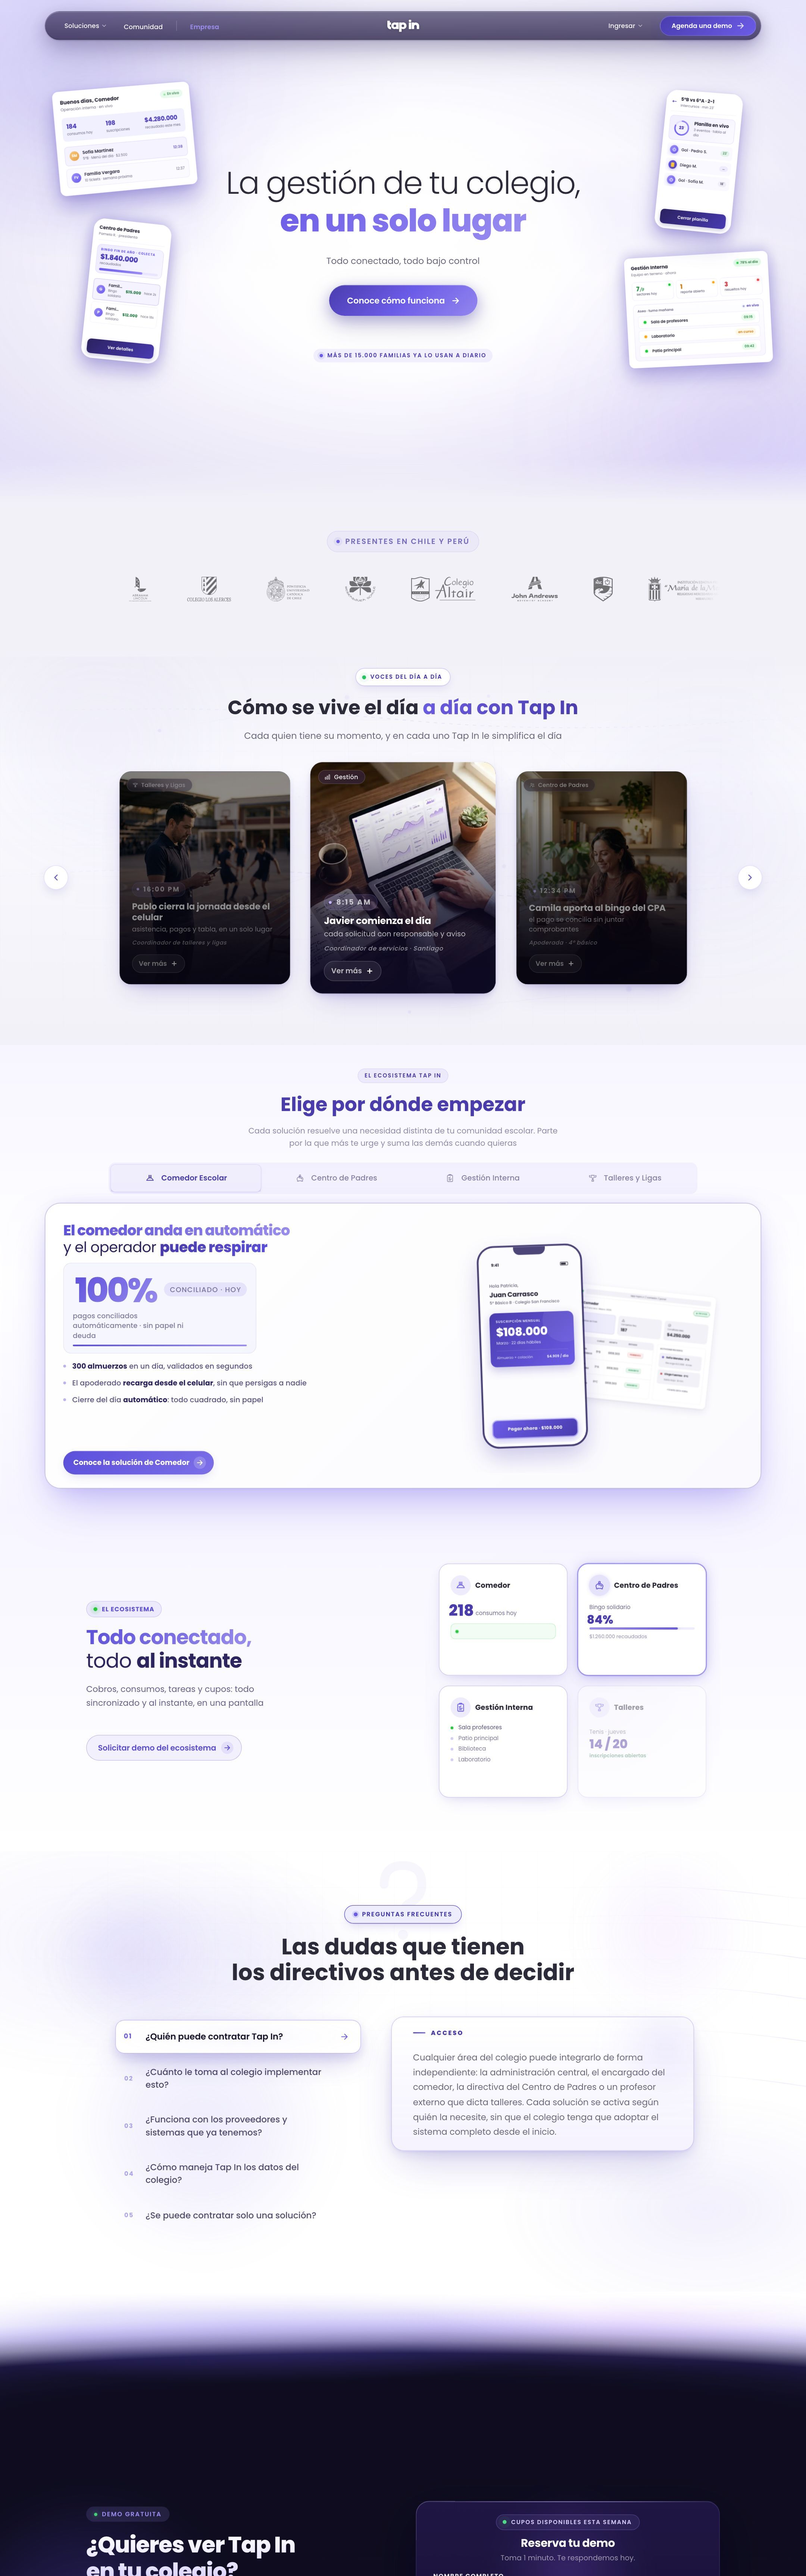
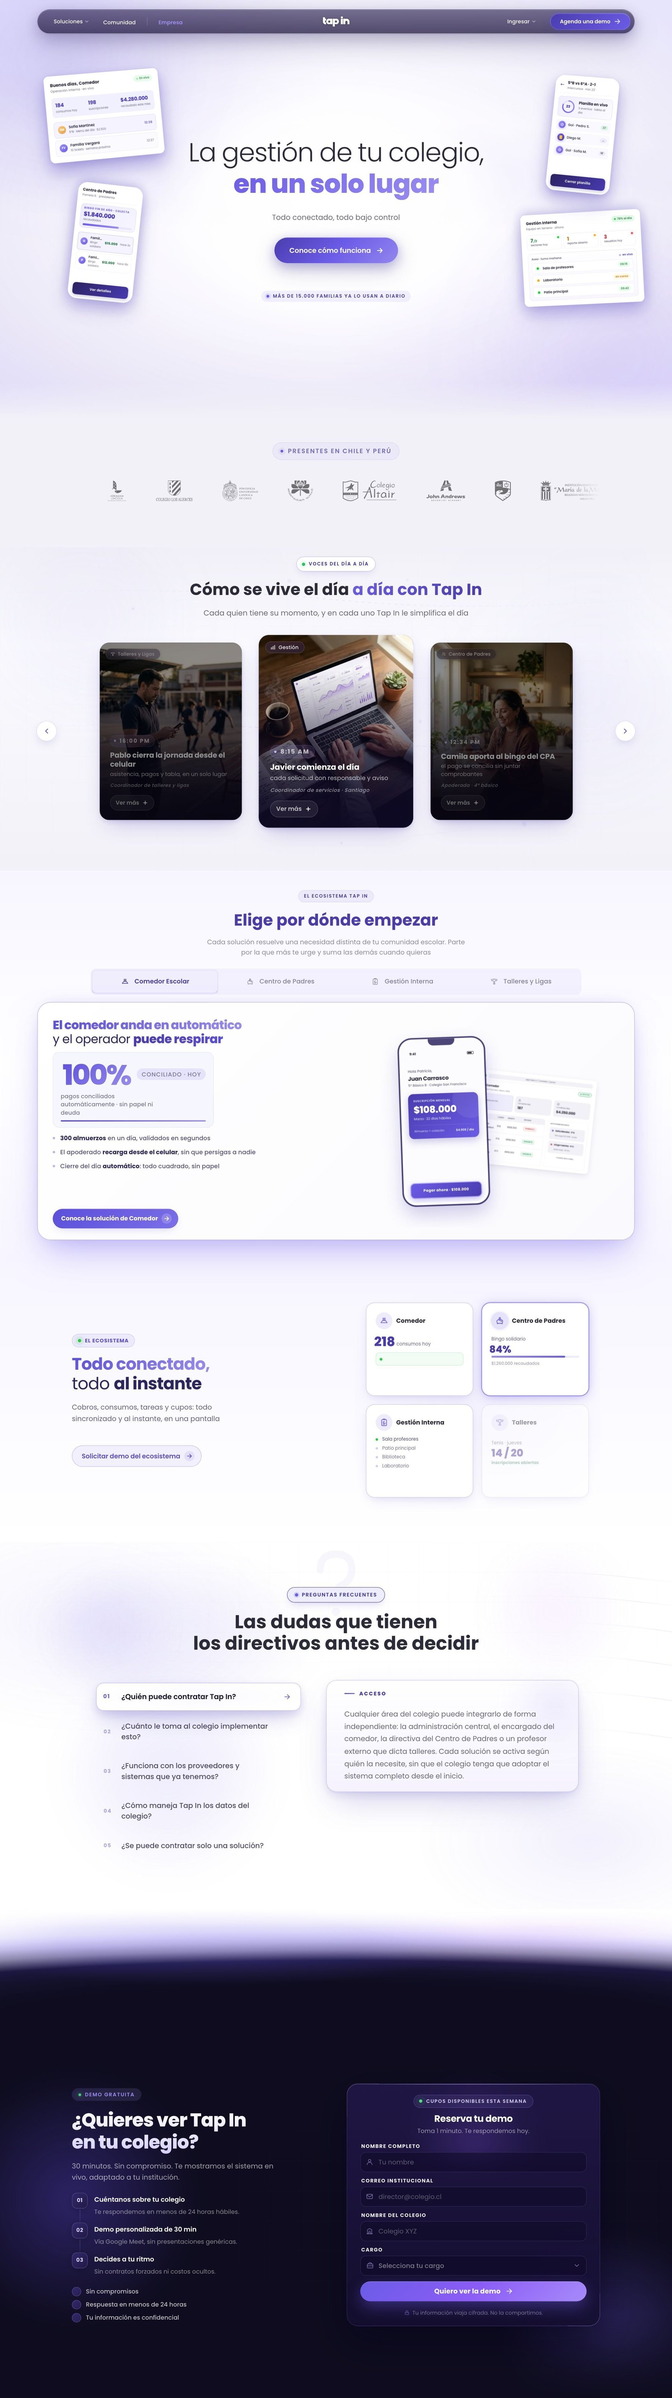
Decisiones: formulario, scroll y notas

diff --git a/redesign/explorations/caso/tapin.css b/redesign/explorations/caso/tapin.css
@@ -1041,27 +1041,24 @@
 .tp-sitio-pin { position: absolute; z-index: 1; display: grid; place-items: center; width: 22px; height: 22px; border-radius: 50%; background: var(--tp-campus); color: #FFFFFF; font-size: 10px; box-shadow: 0 0 0 2.5px #FFFFFF, 0 4px 10px -3px rgba(45, 37, 96, 0.5); translate: -50% -50%; scale: 0; transition: scale 450ms var(--tp-curva); }
 .tp-sitio-pin.ya { scale: 1; }
 /* Notas al margen: la actual en una tarjeta abierta, las demás en filas con su número (lleno si ya se vio) */
-.tp-sitio-indice { grid-column: 9 / -1; list-style: none; align-self: center; display: flex; flex-direction: column; gap: 4px; }
-.tp-sitio-indice > li { padding: 12px 16px; border-radius: 16px; transition: background-color 350ms ease, box-shadow 350ms ease; }
-.tp-sitio-indice .tp-sitio-cab { display: flex; flex-wrap: wrap; justify-content: space-between; row-gap: 12px; padding: 0 16px 14px; color: var(--texto-2); }
+.tp-sitio-indice { grid-column: 9 / -1; list-style: none; align-self: center; display: flex; flex-direction: column; gap: 2px; }
+.tp-sitio-indice > li { padding: 10px 14px; border-radius: 14px; transition: background-color 350ms ease, box-shadow 350ms ease; }
+.tp-sitio-indice .tp-sitio-cab { display: flex; justify-content: space-between; padding: 0 14px 12px; color: var(--texto-2); }
 .tp-sn-rot { display: inline-flex; align-items: center; gap: 8px; } .tp-sn-rot::before { content: ''; width: 6px; height: 6px; border-radius: 50%; background: var(--tp-campus); }
 .tp-sitio-cab span:nth-child(2) { color: var(--tp-campus); }
-.tp-sn-avance { flex: 0 0 100%; display: grid; grid-template-columns: repeat(5, 1fr); gap: 4px; }
-.tp-sn-avance i { height: 3px; border-radius: 3px; background: rgba(45, 37, 96, 0.1); transition: background-color 300ms ease; } .tp-sn-avance i.ya { background: var(--tp-campus); } .tp-sn-avance i.on { background: var(--tp-connect); }
-.tp-sitio-indice li.actual { background: #FFFFFF; box-shadow: 0 0 0 1px rgba(45, 37, 96, 0.06), 0 24px 44px -26px rgba(45, 37, 96, 0.5); }
-.tp-sitio-indice button { display: grid; grid-template-columns: 28px 1fr; gap: 12px; align-items: center; width: 100%; text-align: left; }
-.tp-sn-num { display: grid; place-items: center; width: 28px; height: 28px; border-radius: 50%; box-shadow: inset 0 0 0 1.5px rgba(45, 37, 96, 0.2); color: var(--texto-3); font-size: 11px; transition: background-color 300ms ease, color 300ms ease, box-shadow 300ms ease; }
-.tp-sitio-indice li.ya .tp-sn-num { background: var(--tp-campus); color: #FFFFFF; box-shadow: none; }
-.tp-sitio-indice li.actual .tp-sn-num { background: var(--tp-connect); color: #FFFFFF; box-shadow: 0 0 0 4px rgba(107, 92, 231, 0.18); }
-.tp-sitio-indice b { font: 600 clamp(16px, 1.3vw, 20px) / 1.15 var(--tp-f); letter-spacing: -0.025em; color: var(--texto-3); transition: color 300ms; }
-.tp-sitio-indice li.ya b { color: var(--texto-2); } .tp-sitio-indice li.actual b { color: var(--texto); }
-.tp-sn-cuerpo { display: grid; grid-template-rows: 0fr; padding-left: 40px; transition: grid-template-rows 500ms var(--ease); }
+.tp-sitio-indice li.actual { background: rgba(255, 255, 255, 0.72); box-shadow: 0 0 0 1px rgba(45, 37, 96, 0.07); }
+.tp-sitio-indice button { display: grid; grid-template-columns: 24px 1fr; gap: 12px; align-items: center; width: 100%; text-align: left; }
+.tp-sn-num { display: grid; place-items: center; width: 24px; height: 24px; border-radius: 50%; color: var(--texto-3); font-size: 11px; transition: background-color 300ms ease, color 300ms ease, box-shadow 300ms ease; }
+.tp-sitio-indice li.ya .tp-sn-num { color: var(--tp-campus); }
+.tp-sitio-indice li.actual .tp-sn-num { background: var(--tp-connect); color: #FFFFFF; }
+.tp-sitio-indice b { font: 500 clamp(15px, 1.2vw, 18px) / 1.2 var(--tp-f); letter-spacing: -0.025em; color: var(--texto-3); transition: color 300ms; }
+.tp-sitio-indice li.ya b { color: var(--texto-2); } .tp-sitio-indice li.actual b { color: var(--texto); font-weight: 600; }
+.tp-sn-cuerpo { display: grid; grid-template-rows: 0fr; padding-left: 36px; transition: grid-template-rows 500ms var(--ease); }
 .tp-sn-cuerpo > div { overflow: hidden; min-height: 0; } .tp-sn-cuerpo span { display: flex; }
 .tp-sitio-indice li.actual .tp-sn-cuerpo { grid-template-rows: 1fr; }
-.tp-sitio-indice p { margin: 0; padding-top: 10px; font-size: 15px; line-height: 1.5; color: var(--texto-2); }
-.tp-sn-marca { display: flex; align-items: center; gap: 8px; padding-top: 12px; color: var(--tp-connect); font-size: 11px; }
-.tp-sn-marca::before { content: ''; flex: none; width: 14px; height: 10px; border: 1.5px solid currentColor; border-radius: 3px; }
-@media (hover: hover) { .tp-sitio-indice li:not(.actual) button:hover b { color: var(--texto); } .tp-sitio-indice li:not(.actual) button:hover .tp-sn-num { box-shadow: inset 0 0 0 1.5px var(--tp-campus); } }
+.tp-sitio-indice p { margin: 0; padding-top: 8px; font-size: 14px; line-height: 1.5; color: var(--texto-2); }
+.tp-sn-marca { display: flex; padding-top: 10px; color: var(--texto-3); font-size: 11px; }
+@media (hover: hover) { .tp-sitio-indice li:not(.actual) button:hover b { color: var(--texto); } .tp-sitio-indice li:not(.actual) button:hover .tp-sn-num { color: var(--tp-campus); } }
 
 /* =======================================================
    DECISIÓN 11 · MÓDULOS EN VIVO

diff --git a/redesign/explorations/caso/tapin.html b/redesign/explorations/caso/tapin.html
@@ -505,17 +505,17 @@
                         <div class="tp-sitio-lienzo">
                             <img src="media/tp-larga.jpg" alt="El sitio tapin.cl completo" loading="lazy" decoding="async">
                             <img class="tp-sitio-dd" src="media/tp-dd-panel.jpg" alt="" aria-hidden="true">
-                            <span class="tp-sitio-pin mono" data-pin="0" style="left:5.208%; top:0.304%">06</span><span class="tp-sitio-pin mono" data-pin="1" style="left:15.625%; top:20.435%">07</span><span class="tp-sitio-pin mono" data-pin="2" style="left:12.986%; top:45.087%">08</span><span class="tp-sitio-pin mono" data-pin="3" style="left:10.069%; top:60.500%">09</span><span class="tp-sitio-pin mono" data-pin="4" style="left:13.542%; top:78.196%">10</span>
+                            <span class="tp-sitio-pin mono" data-pin="0" style="left:5.208%; top:0.272%">06</span><span class="tp-sitio-pin mono" data-pin="1" style="left:15.625%; top:18.288%">07</span><span class="tp-sitio-pin mono" data-pin="2" style="left:12.986%; top:40.350%">08</span><span class="tp-sitio-pin mono" data-pin="3" style="left:13.542%; top:69.981%">09</span><span class="tp-sitio-pin mono" data-pin="4" style="left:51.181%; top:86.770%">10</span>
                         </div>
                         <div class="tp-sitio-caja"><span class="mono">06</span></div>
                     </div>
                 </div>
-                <ol class="tp-sitio-indice"><li class="tp-sitio-cab mono" aria-hidden="true" style="--i:0"><span class="tp-sn-rot">Cinco decisiones en tapin.cl</span><span data-sitio-n>06 / 10</span><span class="tp-sn-avance"><i></i><i></i><i></i><i></i><i></i></span></li>
+                <ol class="tp-sitio-indice"><li class="tp-sitio-cab mono" aria-hidden="true" style="--i:0"><span class="tp-sn-rot">Cinco decisiones en tapin.cl</span><span data-sitio-n>06 / 10</span></li>
                     <li data-parada data-caja="75,14,1291,62,31" data-nota="La barra de menú" style="--i:1"><button type="button"><span class="tp-sn-num mono">06</span><b>Un menú, cuatro preguntas</b></button><div class="tp-sn-cuerpo"><div><p>Qué hace, si funciona en mi colegio, quiénes son y cómo los contacto. "Soluciones" y no "Productos": nadie quiere comprar un catálogo.</p><span class="tp-sn-marca mono">En el sitio · La barra de menú</span></div></div></li>
                     <li data-parada data-caja="225,940,1095,150,16" data-nota="Los colegios, bajo el hero" style="--i:2"><button type="button"><span class="tp-sn-num mono">07</span><b>Primero, confianza</b></button><div class="tp-sn-cuerpo"><div><p>El producto funcionando en el hero y, justo debajo, los colegios que ya lo usan. El director ve a sus pares antes de dudar.</p><span class="tp-sn-marca mono">En el sitio · Los colegios, bajo el hero</span></div></div></li>
                     <li data-parada data-caja="187,2074,1064,64,18" data-nota="Las pestañas de módulos" style="--i:3"><button type="button"><span class="tp-sn-num mono">08</span><b>Módulos, no pasos</b></button><div class="tp-sn-cuerpo"><div><p>Sin números: pestañas para elegir qué resolver primero, porque cada módulo se contrata por separado.</p><span class="tp-sn-marca mono">En el sitio · Las pestañas de módulos</span></div></div></li>
-                    <li data-parada data-caja="145,2783,1127,434,22" data-nota="La sección Todo conectado" style="--i:4"><button type="button"><span class="tp-sn-num mono">09</span><b>De oscuro a claro</b></button><div class="tp-sn-cuerpo"><div><p>Cuando llegó el producto real, la web se reestructuró y pasó a fondo claro: institucional antes que tecnológico.</p><span class="tp-sn-marca mono">En el sitio · La sección Todo conectado</span></div></div></li>
-                    <li data-parada data-caja="195,3597,1055,378,22" data-nota="Las preguntas, con su respuesta al lado" style="--i:5"><button type="button"><span class="tp-sn-num mono">10</span><b>Las objeciones, sin acordeón</b></button><div class="tp-sn-cuerpo"><div><p>Las dudas del directivo con la respuesta abierta al lado: nada que tenga que adivinar ni desplegar.</p><span class="tp-sn-marca mono">En el sitio · Las preguntas, con su respuesta al lado</span></div></div></li>
+                    <li data-parada data-caja="195,3597,1055,378,22" data-nota="Las preguntas, con su respuesta al lado" style="--i:4"><button type="button"><span class="tp-sn-num mono">09</span><b>Las objeciones, sin acordeón</b></button><div class="tp-sn-cuerpo"><div><p>Las dudas del directivo con la respuesta abierta al lado: nada que tenga que adivinar ni desplegar.</p><span class="tp-sn-marca mono">En el sitio · Las preguntas, con su respuesta al lado</span></div></div></li>
+                    <li data-parada data-caja="737,4460,555,532,26" data-nota="El formulario de la demo" style="--i:5"><button type="button"><span class="tp-sn-num mono">10</span><b>Cuatro campos para pedir la demo</b></button><div class="tp-sn-cuerpo"><div><p>Todo el sitio empuja a este formulario. Pide solo lo necesario para preparar la demo y, al lado, explica qué pasa después: respuesta en menos de 24 horas, sin compromiso.</p><span class="tp-sn-marca mono">En el sitio · El formulario de la demo</span></div></div></li>
                 </ol>
             </div>
         </section>

diff --git a/redesign/explorations/caso/tapin.js b/redesign/explorations/caso/tapin.js
@@ -309,7 +309,7 @@
         /* El sitio: baja por tapin.cl y se detiene en cada decisión; el foco se dibuja sobre la parte que
            explica. Las cajas están en píxeles del sitio a 1440 de ancho */
         sitio: el => {
-            const ANCHO = 1440, ALTO = 4600, VIAJE = 0.4, FINAL = 0.6;
+            const ANCHO = 1440, ALTO = 5140, VIAJE = 0.4, FINAL = 0.6;
             const pant = el.querySelector('.tp-sitio-pantalla'), lienzo = el.querySelector('.tp-sitio-lienzo');
             const caja = el.querySelector('.tp-sitio-caja'), cajaTxt = caja.querySelector('span');
             const items = [...el.querySelectorAll('[data-parada]')];
@@ -321,8 +321,8 @@
             const medir = () => {
                 e = pant.clientWidth / ANCHO; vis = pant.clientHeight / e;
                 pant.style.setProperty('--e', e.toFixed(4));
-                /* Cada parada deja su caja en el primer cuarto de la pantalla */
-                paradas.forEach(d => { d.top = fijar(d.y - vis * 0.22, 0, ALTO - vis); });
+                /* Cada parada deja su marco centrado en la pantalla del navegador */
+                paradas.forEach(d => { d.top = fijar(d.y + d.h / 2 - vis / 2, 0, ALTO - vis); });
             };
             medir();
             window.addEventListener('resize', medir);
@@ -379,7 +379,8 @@
                 const p = fijar((pista - M) / (1 - M));
                 const u = p * U, i = Math.floor(u), t = u - i;
                 let y, act = -1;
-                if (i >= paradas.length) y = paradas[paradas.length - 1].top + (ALTO - vis - paradas[paradas.length - 1].top) * curva(fijar(t / FINAL));
+                /* Después de la última decisión el sitio queda quieto: no hay más que recorrer */
+                if (i >= paradas.length) y = paradas[paradas.length - 1].top;
                 else if (i === 0 || t >= VIAJE) { y = paradas[i].top; act = i; }
                 else y = paradas[i - 1].top + (paradas[i].top - paradas[i - 1].top) * curva(t / VIAJE);
                 lienzo.style.transform = `translate3d(0, ${(-y * e).toFixed(1)}px, 0)`;

diff --git a/index.html b/index.html
@@ -30,7 +30,7 @@
     </style>
 </head>
 <body>
-    <header><b>agustín.design</b><span class="mono">Actualizado: 23-10-2026 11:44</span></header>
+    <header><b>agustín.design</b><span class="mono">Actualizado: 23-10-2026 11:58</span></header>
     <h1>Rediseño</h1>
     <p class="bajada">Exploraciones del rediseño del portafolio, sección por sección. Este repositorio se actualiza en cada avance para revisarlo desde cualquier dispositivo.</p>
     <ol>
